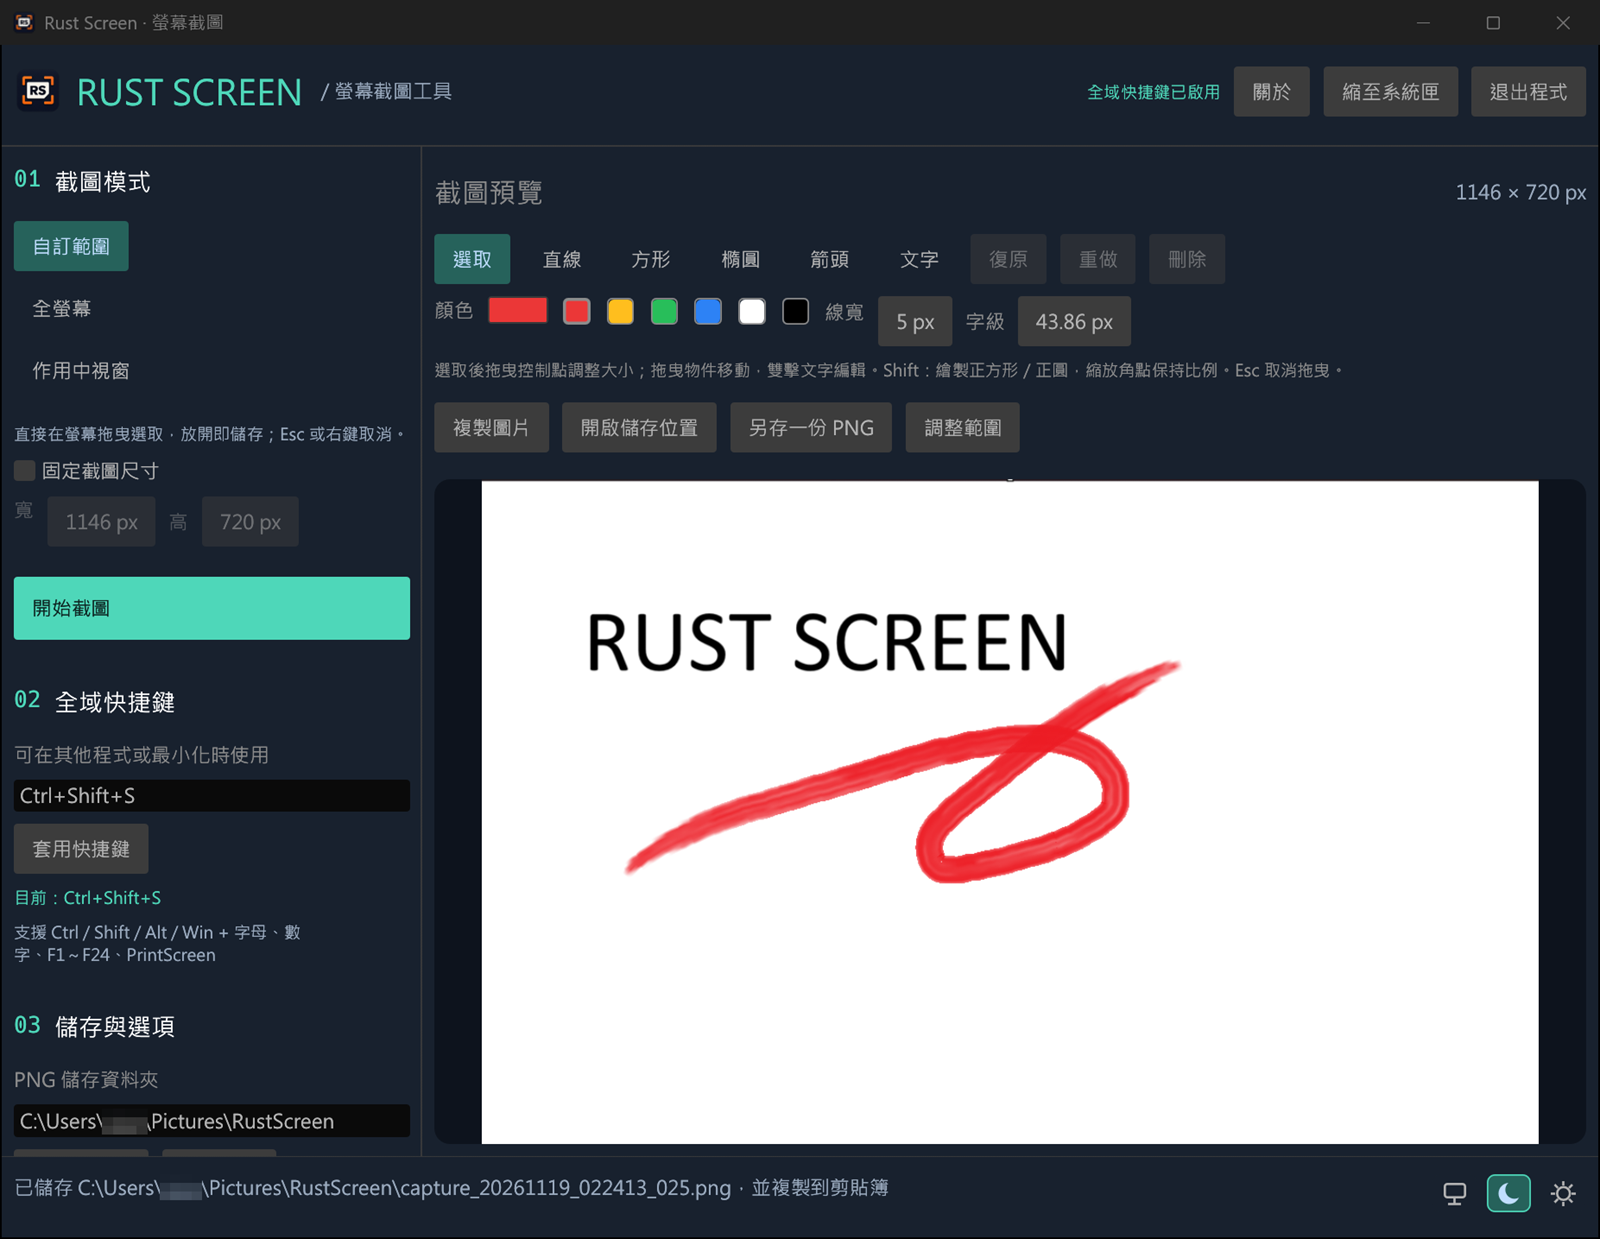
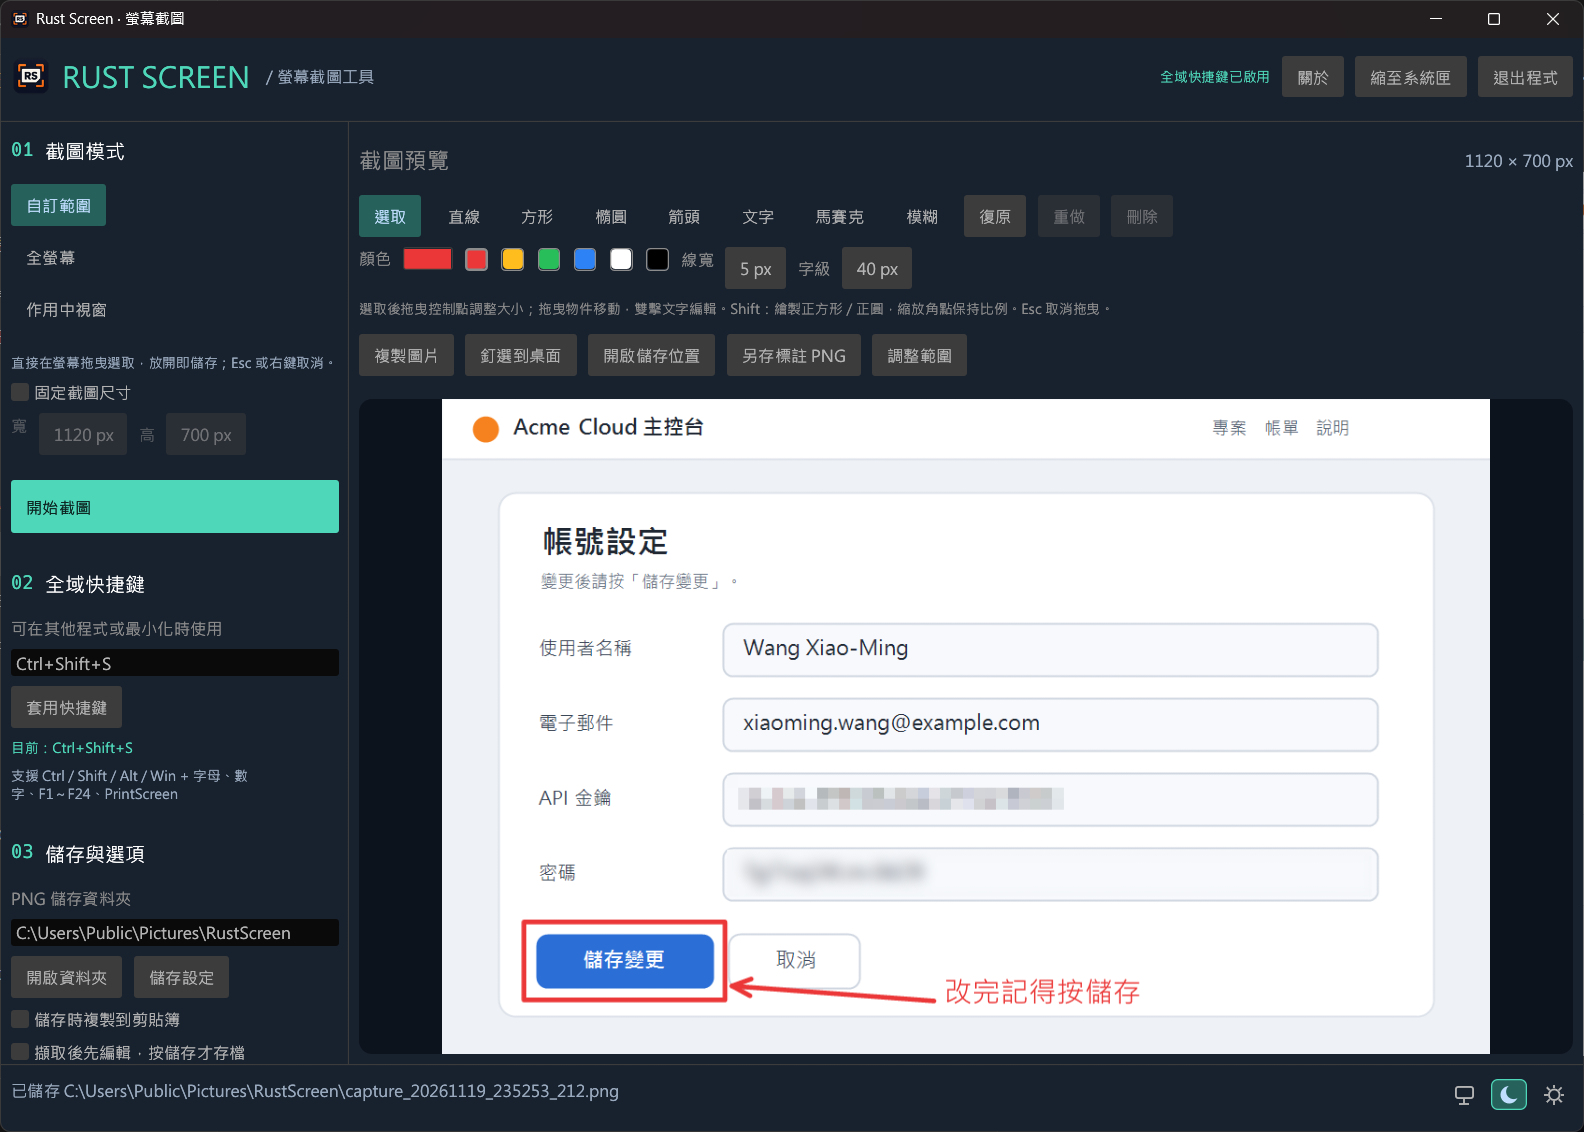
Update the main window screenshots for 0.10.0-beta
Replace both hero screenshots with 0.10.0-beta captures showing the new
toolbar, the pin button and a capture with masked secrets, and update
the image size and alt text.

diff --git a/index.html b/index.html
@@ -84,8 +84,8 @@
         </div>
 
         <figure class="shot shot--hero">
-          <img class="shot__img shot__img--dark" src="assets/shot-main-dark.png" alt="Rust Screen 主視窗（深色主題）：頂端有關於、縮至系統匣與退出程式按鈕，左側為截圖、快捷鍵與儲存設定，右側為剛擷取的 1146 × 720 px 截圖預覽與標註工具列" width="1600" height="1239">
-          <img class="shot__img shot__img--light" src="assets/shot-main-light.png" alt="Rust Screen 主視窗（淺色主題）：頂端有關於、縮至系統匣與退出程式按鈕，左側為截圖、快捷鍵與儲存設定，右側為剛擷取的 1146 × 720 px 截圖預覽與標註工具列" width="1600" height="1239" loading="lazy">
+          <img class="shot__img shot__img--dark" src="assets/shot-main-dark.png" alt="Rust Screen 主視窗（深色主題）：頂端有關於、縮至系統匣與退出程式按鈕，左側為截圖、快捷鍵與儲存設定，右側為剛擷取的 1120 × 700 px 截圖預覽與標註工具列。截圖中的 API 金鑰與密碼已遮蔽，並用紅框和箭頭標出儲存按鈕" width="1584" height="1132">
+          <img class="shot__img shot__img--light" src="assets/shot-main-light.png" alt="Rust Screen 主視窗（淺色主題）：頂端有關於、縮至系統匣與退出程式按鈕，左側為截圖、快捷鍵與儲存設定，右側為剛擷取的 1120 × 700 px 截圖預覽與標註工具列。截圖中的 API 金鑰與密碼已遮蔽，並用紅框和箭頭標出儲存按鈕" width="1584" height="1132" loading="lazy">
           <figcaption>實際畫面 · 截圖完成後的主視窗。切換網頁右上角的主題，截圖也會跟著換。</figcaption>
         </figure>
       </div>
